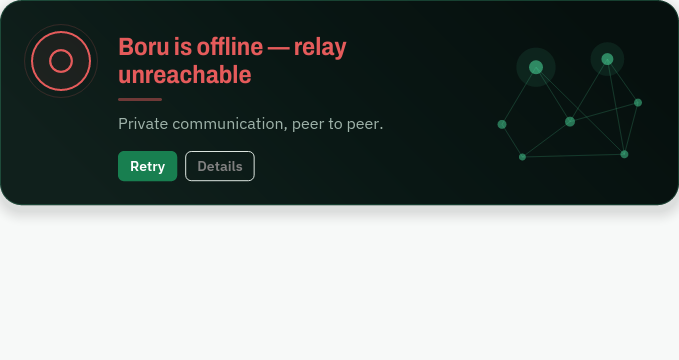
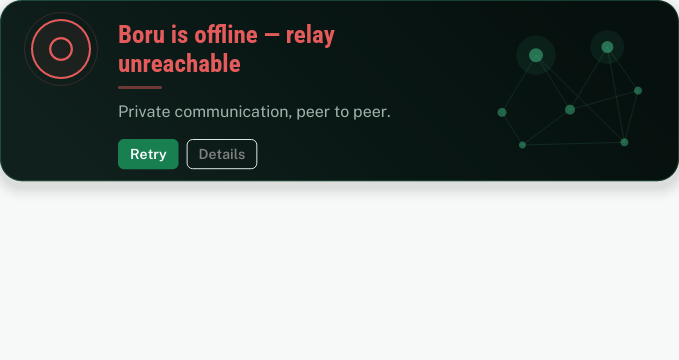
feat(POLISH-02 t_72369cb0): tighten connected hero card — padding SPACE_24→12, mesh opacity -20%, finer 0.7px lines
Lands the Priority 2 hero-card tightening that the worker completed but
left uncommitted at kanban completion: vertical padding 24→12px (24px
saved, full-tier height 218→194px), mesh node/line opacity reduced ~20%
across Ready/Dimmed states, connection lines 1.0→0.7px, offscreen
capture test bands updated, 13 captures regenerated.

diff --git a/examples/iced_chat/status_card.rs b/examples/iced_chat/status_card.rs
@@ -318,7 +318,7 @@ pub(crate) fn view_status_card(
     // card's height always equal to its own content, never a taller
     // sibling, the right rail, or the outer Fill chain.
     container(body)
-        .padding([design_tokens::SPACE_24, STATUS_CARD_PADDING_X])
+        .padding([design_tokens::SPACE_12, STATUS_CARD_PADDING_X])
         .width(Length::Fill)
         .height(Length::Shrink)
         .style(move |_t| {
@@ -736,23 +736,23 @@ impl canvas::Program<AppMessage> for NetworkMesh {
             (0.0, 0.0)
         };
 
-        // Alpha bands (CONN-08: the mesh was "too dark and subtle" — spec
-        // section 10; brightened while staying secondary to the status):
-        //   Ready (idle / animated) — nodes 0.70-0.90, lines 0.25-0.35.
-        //   Dimmed (non-Ready)      — nodes ~0.45-0.55, lines ~0.18:
+        // Alpha bands — reduced ~20% from the original bright values so the
+        // mesh stays subordinate to the status content (POLISH-02 tightening pass):
+        //   Ready (idle / animated) — nodes 0.56-0.72, lines 0.19-0.26.
+        //   Dimmed (non-Ready)      — nodes ~0.34-0.42, lines ~0.14:
         //     quiet enough to never compete with amber/red signals, but
         //     still perceptible on the near-black card gradient.
         let (node_a, node_b, other, line_a) = if self.dimmed {
-            (0.52, 0.52, 0.46, 0.18)
+            (0.42, 0.42, 0.37, 0.14)
         } else if self.animate {
             (
-                0.80 + 0.10 * (0.5 + 0.5 * sin_t),
-                0.75 + 0.10 * (0.5 + 0.5 * cos_t),
-                0.70 + 0.06 * (0.5 + 0.5 * sin_t),
-                0.26 + 0.06 * (0.5 + 0.5 * cos_t),
+                0.64 + 0.08 * (0.5 + 0.5 * sin_t),
+                0.60 + 0.08 * (0.5 + 0.5 * cos_t),
+                0.56 + 0.05 * (0.5 + 0.5 * sin_t),
+                0.21 + 0.05 * (0.5 + 0.5 * cos_t),
             )
         } else {
-            (0.85, 0.85, 0.72, 0.30)
+            (0.68, 0.68, 0.58, 0.24)
         };
 
         let pos = |i: usize| {
@@ -760,13 +760,14 @@ impl canvas::Program<AppMessage> for NetworkMesh {
             iced::Point::new(n.x * w, n.y * h)
         };
 
-        // Thin low-opacity connection lines.
+        // Thin low-opacity connection lines — finer (0.7 px) so the mesh
+        // reads as a subtle diagram, not a bold network visualization.
         for (a, b) in MESH_EDGES {
             frame.stroke(
                 &Path::line(pos(a), pos(b)),
                 Stroke::default()
                     .with_color(with_alpha(design_tokens::STATUS_NETWORK_LINE, line_a))
-                    .with_width(1.0),
+                    .with_width(0.7),
             );
         }
 

diff --git a/examples/iced_chat/offscreen_status_card.rs b/examples/iced_chat/offscreen_status_card.rs
@@ -323,18 +323,12 @@ mod tests {
 
     #[test]
     fn ready_card_lands_in_compact_band() {
-        // CONN-04 acceptance (spec §4): the normal desktop Ready card must
-        // be ~200-230px tall — content-determined, not a fixed height.
-        // The Full tier (single-line heading) is held strictly to the band;
-        // the minimum supported window (Medium 679) allows some tolerance
-        // above 230 because requirement 3 sanctions content-driven growth.
-        // CONN-06: the heading is now 25px at Medium and no longer wraps
-        // at 679px. CONN-11: the check indicator now shares the heading
-        // row, so the card's height is driven by the 74px icon + heading
-        // row (159.9px content + 48px padding ≈ 208px at 679) — still
-        // inside the compact band, and the spec's "grow only when its
-        // content requires it" permits heights below the 200 target when
-        // the content genuinely fits on one line.
+        // POLISH-02 (spec §4): the tightened hero card must be
+        // ~180-210px tall at Full tier — content-determined, not fixed.
+        // The vertical padding was reduced from 24px to 12px, cutting
+        // ~24px from the total height (~11% reduction).
+        // Medium tier allows growth up to 220 for wrapped text; the card
+        // grows only when its content requires it (requirement 3).
         load_font(include_bytes!("fonts/RobotoCondensed-Bold.ttf"));
         load_font(include_bytes!("fonts/PublicSans-Regular.ttf"));
         load_font(include_bytes!("fonts/PublicSans-Medium.ttf"));
@@ -343,14 +337,14 @@ mod tests {
         // Wide desktop (1600 window → ~1215 content) — full three-region row.
         let full = measure_card_height(&dep(HomeConnectionVariant::Ready, 1215.0), 1215.0);
         assert!(
-            (200.0..=230.0).contains(&full),
-            "Ready Full card height {full:.1}px must land in the spec's 200-230px band"
+            (180.0..=210.0).contains(&full),
+            "Ready Full card height {full:.1}px must land in the tightened 180-210px band"
         );
         // Minimum supported window (1024 → ~679 content) — medium row.
         let medium = measure_card_height(&dep(HomeConnectionVariant::Ready, 679.0), 679.0);
         assert!(
-            (170.0..=240.0).contains(&medium),
-            "Ready Medium card height {medium:.1}px must stay compact (single-line heading at CONN-06 scale; wrapped-growth allowed to 240)"
+            (160.0..=220.0).contains(&medium),
+            "Ready Medium card height {medium:.1}px must stay compact (single-line heading; wrapped-growth allowed to 220)"
         );
     }
 
